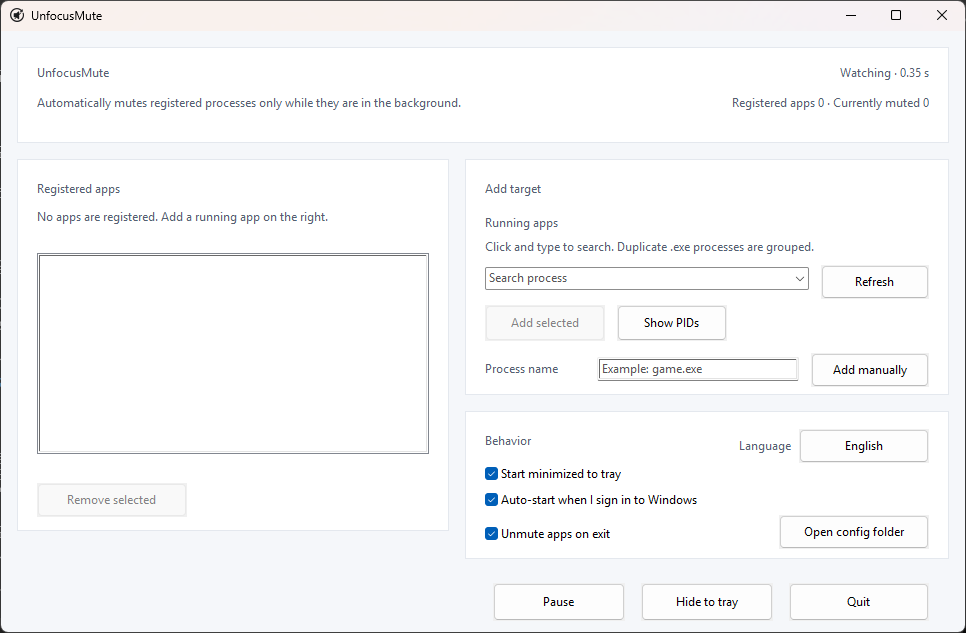
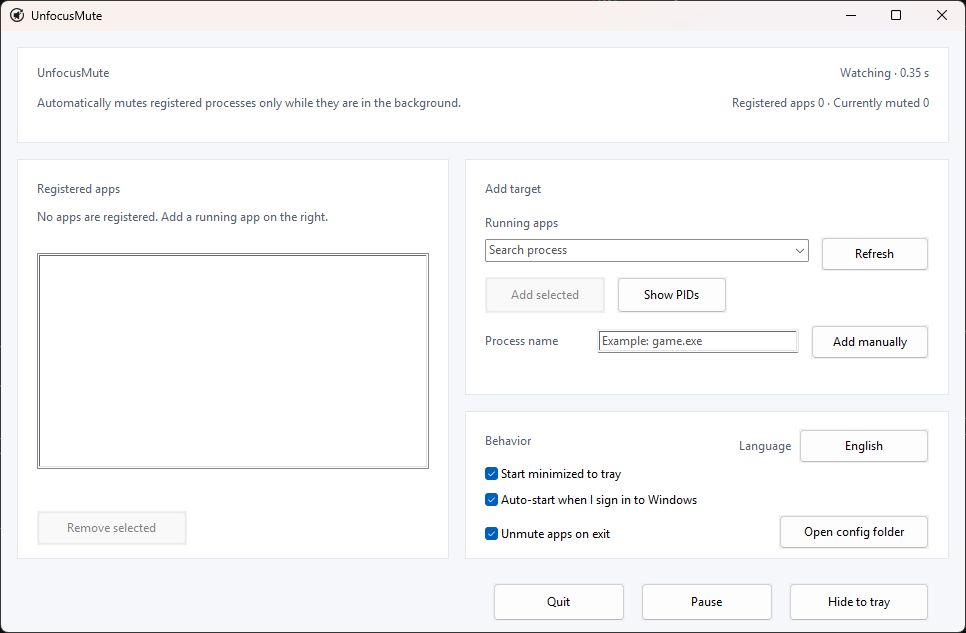
Refine target list UI and process name docs

diff --git a/src/windows_app/ui.rs b/src/windows_app/ui.rs
@@ -43,7 +43,8 @@ use windows::Win32::UI::WindowsAndMessaging::{
     CBS_DROPDOWNLIST, CREATESTRUCTW, CreatePopupMenu, CreateWindowExW, DefWindowProcW, DestroyMenu,
     DestroyWindow, DispatchMessageW, ES_AUTOHSCROLL, FindWindowW, GWLP_USERDATA, GetCursorPos,
     GetMessageW, GetSystemMetrics, GetWindowRect, HICON, HMENU, ICON_BIG, ICON_SMALL, IDC_ARROW,
-    IDI_APPLICATION, IMAGE_ICON, LB_ADDSTRING, LB_GETCURSEL, LB_RESETCONTENT, LBN_SELCHANGE,
+    IDI_APPLICATION, IMAGE_ICON, LB_ADDSTRING, LB_GETCURSEL, LB_RESETCONTENT, LB_SETCURSEL,
+    LBN_SELCHANGE,
     LBS_NOTIFY, LR_DEFAULTCOLOR, LoadCursorW, LoadIconW, LoadImageW, MB_ICONINFORMATION,
     MB_ICONWARNING, MB_OK, MF_SEPARATOR, MF_STRING, MSG, MessageBoxW, MoveWindow, PostQuitMessage,
     RegisterClassW,
@@ -52,9 +53,10 @@ use windows::Win32::UI::WindowsAndMessaging::{
     ShowWindow, TPM_NONOTIFY, TPM_RETURNCMD, TPM_RIGHTBUTTON, TRACK_POPUP_MENU_FLAGS,
     TrackPopupMenu, TranslateMessage, WINDOW_EX_STYLE, WINDOW_STYLE, WM_APP, WM_CLOSE, WM_COMMAND,
     WM_CREATE, WM_CTLCOLOREDIT, WM_CTLCOLORLISTBOX, WM_CTLCOLORSTATIC, WM_DESTROY,
-    WM_LBUTTONDBLCLK, WM_MOVE, WM_NCCREATE, WM_NCDESTROY, WM_PAINT, WM_RBUTTONUP, WM_SETFONT,
-    WM_SETICON, WM_TIMER, WNDCLASSW, WS_BORDER, WS_CHILD, WS_CLIPCHILDREN, WS_CLIPSIBLINGS,
-    WS_EX_CLIENTEDGE, WS_OVERLAPPEDWINDOW, WS_TABSTOP, WS_VISIBLE, WS_VSCROLL,
+    WM_LBUTTONDBLCLK, WM_LBUTTONDOWN, WM_MOVE, WM_NCCREATE, WM_NCDESTROY, WM_PAINT,
+    WM_RBUTTONUP, WM_SETFONT, WM_SETICON, WM_TIMER, WNDCLASSW, WS_BORDER, WS_CHILD,
+    WS_CLIPCHILDREN, WS_CLIPSIBLINGS, WS_EX_CLIENTEDGE, WS_OVERLAPPEDWINDOW, WS_TABSTOP,
+    WS_VISIBLE, WS_VSCROLL,
 };
 use windows::core::{PCWSTR, w};
 
@@ -646,21 +648,6 @@ impl AppWindow {
                 0,
             )?
         };
-        self.controls.target_summary = unsafe {
-            create_control(
-                self.hwnd,
-                instance,
-                w!("STATIC"),
-                "",
-                child,
-                WINDOW_EX_STYLE(0),
-                36,
-                178,
-                392,
-                34,
-                0,
-            )?
-        };
         self.controls.target_list = unsafe {
             create_control(
                 self.hwnd,
@@ -670,9 +657,9 @@ impl AppWindow {
                 child | WS_BORDER | WS_VSCROLL | WINDOW_STYLE(LBS_NOTIFY as u32),
                 WS_EX_CLIENTEDGE,
                 36,
-                222,
+                184,
                 392,
-                242,
+                280,
                 ID_TARGETS,
             )?
         };
@@ -948,7 +935,6 @@ impl AppWindow {
         }
         self.refresh_process_details_ui();
         self.update_status();
-        self.update_target_summary();
         self.add_tray_icon();
     }
 
@@ -1159,7 +1145,6 @@ impl AppWindow {
                 add_list_item(self.controls.target_list, &target.display_name());
             }
         }
-        self.update_target_summary();
         self.update_status();
         self.update_action_buttons();
     }
@@ -1365,21 +1350,6 @@ impl AppWindow {
         self.last_status = Some((status, detail));
     }
 
-    fn update_target_summary(&self) {
-        let summary = if self.config.targets.is_empty() {
-            self.strings.no_targets.to_owned()
-        } else {
-            format!(
-                "{} {}",
-                self.strings.target_count,
-                self.config.targets.len()
-            )
-        };
-        unsafe {
-            set_text(self.controls.target_summary, &summary);
-        }
-    }
-
     fn reset_audio_after_endpoint_change(&mut self) {
         if let Some(audio) = &self.audio {
             for session in mem::take(&mut self.muted_by_app) {
@@ -1519,7 +1489,6 @@ impl AppWindow {
         if language_changed {
             self.refresh_text();
         } else {
-            self.update_target_summary();
             self.update_status();
         }
     }
@@ -1551,6 +1520,10 @@ impl AppWindow {
     }
 
     fn command(&mut self, id: i32, notification: u16) {
+        if id != ID_TARGETS && id != ID_REMOVE {
+            self.clear_target_selection();
+        }
+
         match id {
             ID_ADD_SELECTED => self.add_selected_process(),
             ID_ADD_MANUAL => self.add_manual_target(),
@@ -1723,6 +1696,22 @@ impl AppWindow {
             self.save_config();
             self.refresh_targets();
         }
+    }
+
+    fn clear_target_selection(&mut self) {
+        let index = unsafe { SendMessageW(self.controls.target_list, LB_GETCURSEL, None, None).0 };
+        if index < 0 {
+            return;
+        }
+        unsafe {
+            SendMessageW(
+                self.controls.target_list,
+                LB_SETCURSEL,
+                Some(WPARAM(usize::MAX)),
+                None,
+            );
+        }
+        self.update_action_buttons();
     }
 
     fn update_action_buttons(&self) {
@@ -2135,7 +2124,6 @@ struct Controls {
     status: HWND,
     status_detail: HWND,
     targets_label: HWND,
-    target_summary: HWND,
     target_list: HWND,
     remove_button: HWND,
     add_label: HWND,
@@ -2162,14 +2150,13 @@ struct Controls {
 }
 
 impl Controls {
-    fn all(self) -> [HWND; 29] {
+    fn all(self) -> [HWND; 28] {
         [
             self.title_label,
             self.subtitle_label,
             self.status,
             self.status_detail,
             self.targets_label,
-            self.target_summary,
             self.target_list,
             self.remove_button,
             self.add_label,
@@ -2248,6 +2235,10 @@ unsafe extern "system" fn window_proc(
             }
             WM_PAINT => {
                 app.paint(hwnd);
+                return LRESULT(0);
+            }
+            WM_LBUTTONDOWN => {
+                app.clear_target_selection();
                 return LRESULT(0);
             }
             WM_MOVE => {

diff --git a/README.md b/README.md
@@ -70,6 +70,10 @@ Windows 10/11용 배포 ZIP을 받은 뒤 압축을 풀고 `UnfocusMute.exe`를 
 6. 특정 PID만 등록해야 하면 `세부 PID 보기`를 눌러 개별 항목을 선택합니다. PID 대상은 현재 실행 중인 인스턴스에만 해당하므로 앱을 다시 실행한 뒤 PID가 바뀌면 다시 선택하세요.
 7. 창을 닫으면 앱은 트레이에 남아 계속 감시합니다. 완전히 종료하려면 `종료`를 누릅니다.
 
+## 게임 프로세스 이름 확인하기
+
+등록할 이름이 헷갈리면 게임을 실행한 뒤 `Ctrl`+`Shift`+`Esc`를 눌러 작업 관리자를 여세요. 프로세스 목록을 `CPU` 순으로 정렬하면 방금 실행한 게임을 찾기 쉽습니다. 게임 항목을 마우스 오른쪽 버튼으로 누르고 `속성`을 열면 `game.exe`처럼 `.exe`로 끝나는 프로세스 이름을 확인할 수 있습니다.
+
 ## 기본 설정
 
 첫 실행에서 `Windows에 로그인하면 자동 실행` 여부를 선택할 수 있습니다. 새 설정의 기본값은 `Windows에 로그인하면 자동 실행` 꺼짐, `시작 시 트레이로 최소화` 켜짐, `종료 시 앱 음소거 해제` 켜짐입니다. 첫 실행에서는 언어 선택과 초기 확인을 위해 메인 창을 한 번 표시하고, 이후 실행부터 트레이 최소화 설정이 적용됩니다.

diff --git a/docs/README.fr.md b/docs/README.fr.md
@@ -64,6 +64,10 @@ Téléchargez le ZIP pour Windows 10/11, extrayez-le, puis lancez `UnfocusMute.e
 6. Utilisez `Afficher les PID` uniquement si vous devez enregistrer une instance précise. Une cible PID ne s’applique qu’à l’instance en cours ; si l’application redémarre avec un autre PID, sélectionnez-la à nouveau.
 7. Fermer la fenêtre laisse UnfocusMute actif dans la zone de notification. Utilisez `Quitter` pour l’arrêter complètement.
 
+## Trouver le Nom du Processus d’un Jeu
+
+Si vous ne savez pas quel nom saisir, lancez le jeu puis appuyez sur `Ctrl`+`Shift`+`Esc` pour ouvrir le Gestionnaire des tâches. Triez la liste des processus par `CPU` afin de repérer plus facilement le jeu actif. Faites un clic droit sur le jeu, ouvrez `Propriétés`, puis cherchez le nom du processus qui se termine par `.exe`, comme `game.exe`.
+
 ## Réglages Par Défaut
 
 Au premier lancement, vous pouvez choisir si UnfocusMute démarre automatiquement à l’ouverture de session Windows. Les nouvelles configurations désactivent le démarrage automatique par défaut, activent le démarrage réduit dans la zone de notification et réactivent le son des applications à la fermeture.

diff --git a/docs/README.ja.md b/docs/README.ja.md
@@ -64,6 +64,10 @@ Windows 10/11向けZIPをダウンロードし、展開して `UnfocusMute.exe` 
 6. 特定のPIDだけを登録したい場合は `PID詳細を表示` を使います。PID対象は現在実行中のインスタンスだけに適用されるため、アプリを再起動してPIDが変わった場合は選び直してください。
 7. ウィンドウを閉じてもアプリはトレイで動作します。完全に終了するには `終了` を押します。
 
+## ゲームのプロセス名を確認する
+
+入力する名前が分からない場合は、ゲームを起動してから `Ctrl`+`Shift`+`Esc` でタスク マネージャーを開きます。プロセス一覧を `CPU` 順に並べると、起動中のゲームを見つけやすくなります。ゲームを右クリックして `プロパティ` を開くと、`game.exe` のように `.exe` で終わるプロセス名を確認できます。
+
 ## 既定の動作
 
 初回起動時に、Windowsサインイン時にUnfocusMuteを自動起動するかを選択できます。新しい設定では、自動起動は無効、トレイ最小化と終了時のミュート解除は有効です。

diff --git a/docs/README.pt.md b/docs/README.pt.md
@@ -64,6 +64,10 @@ Baixe o ZIP para Windows 10/11, extraia e execute `UnfocusMute.exe`. O app é po
 6. Use `Mostrar PIDs` somente quando precisar registrar uma instância específica. Um alvo por PID vale apenas para a instância em execução; se o app reiniciar com outro PID, selecione-o novamente.
 7. Fechar a janela mantém o UnfocusMute rodando na bandeja. Use `Sair` para encerrar completamente.
 
+## Encontrar o Nome do Processo do Jogo
+
+Se você não souber o que digitar, abra o jogo e pressione `Ctrl`+`Shift`+`Esc` para abrir o Gerenciador de Tarefas. Ordene a lista de processos por `CPU` para encontrar o jogo ativo com mais facilidade. Clique com o botão direito no jogo, abra `Propriedades` e procure o nome do processo terminado em `.exe`, como `game.exe`.
+
 ## Padrões
 
 No primeiro uso, você pode escolher se o UnfocusMute inicia automaticamente ao entrar no Windows. Em novas configurações, o início automático fica desativado, enquanto iniciar minimizado na bandeja e desmutar apps ao sair ficam ativados.

diff --git a/docs/README.es.md b/docs/README.es.md
@@ -64,6 +64,10 @@ Descarga el ZIP para Windows 10/11, extráelo y ejecuta `UnfocusMute.exe`. Es po
 6. Usa `Ver PID` solo cuando necesites registrar una instancia concreta. Un objetivo PID solo se aplica a la instancia que está en ejecución; si la app se reinicia con otro PID, selecciónalo de nuevo.
 7. Al cerrar la ventana, UnfocusMute sigue en la bandeja. Usa `Salir` para cerrarla por completo.
 
+## Encontrar el Nombre del Proceso del Juego
+
+Si no sabes qué nombre escribir, abre el juego y pulsa `Ctrl`+`Shift`+`Esc` para abrir el Administrador de tareas. Ordena la lista de procesos por `CPU` para encontrar más fácilmente el juego activo. Haz clic derecho sobre el juego, abre `Propiedades` y busca el nombre de proceso que termina en `.exe`, como `game.exe`.
+
 ## Valores Predeterminados
 
 En el primer inicio puedes elegir si UnfocusMute se inicia automáticamente al entrar en Windows. La configuración nueva deja desactivado el inicio automático y activa iniciar minimizado en bandeja y quitar silencio al salir.

diff --git a/README_en.md b/README_en.md
@@ -64,6 +64,10 @@ Download the Windows 10/11 ZIP, extract it, and run `UnfocusMute.exe`. It is por
 6. Use `Show PIDs` only when you need to register one specific process instance. A PID target applies only to the currently running instance, so choose it again if the app restarts with a different PID.
 7. Closing the window keeps UnfocusMute running in the tray. Use `Quit` to fully exit.
 
+## Finding a Game Process Name
+
+If you are not sure what to type, start the game and press `Ctrl`+`Shift`+`Esc` to open Task Manager. Sort the process list by `CPU` so the active game is easier to spot. Right-click the game, open `Properties`, and look for the process name ending in `.exe`, such as `game.exe`.
+
 ## Defaults
 
 On first run, you can choose whether UnfocusMute auto-starts when you sign in to Windows. Default settings for new configs are: auto-start disabled, start minimized to tray enabled, and unmute apps on exit enabled.
